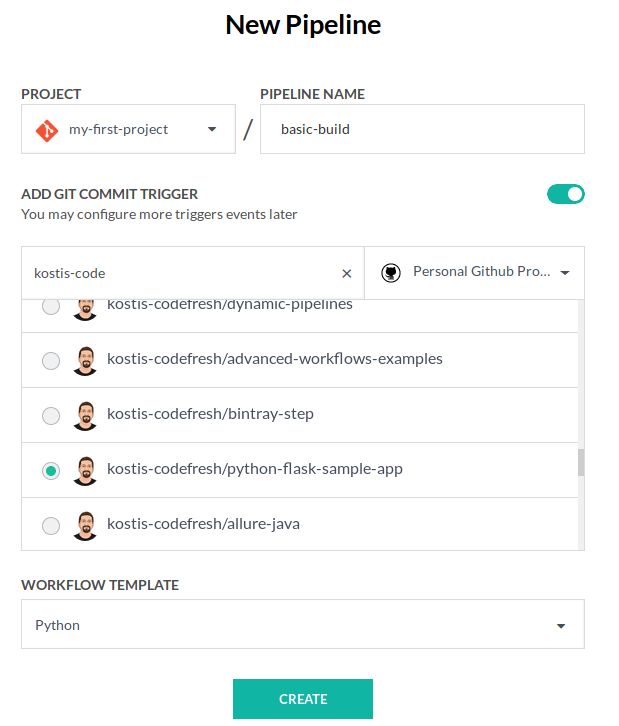
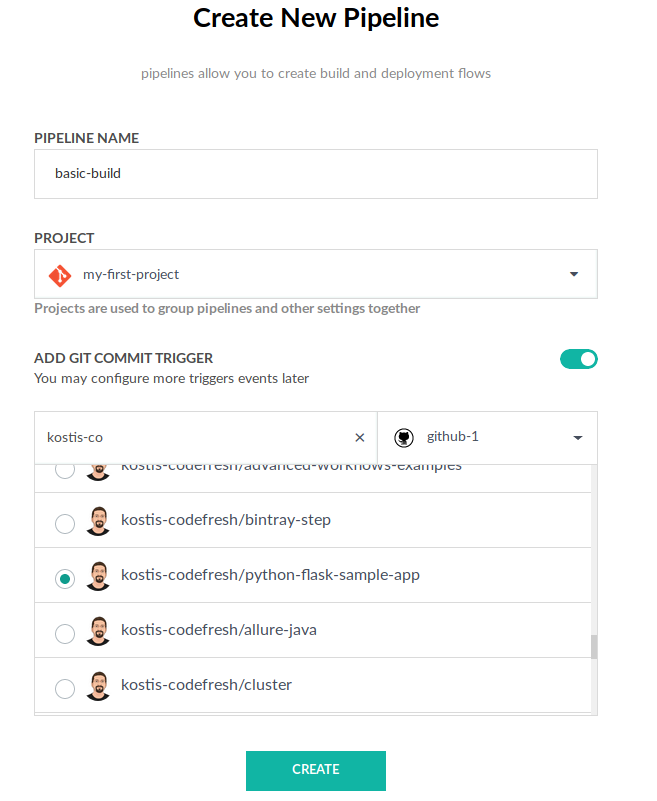
Template pipelines are now automatic

diff --git a/_docs/getting-started/create-a-basic-pipeline.md b/_docs/getting-started/create-a-basic-pipeline.md
@@ -57,7 +57,7 @@ After some brief time, the repository should appear in your own Github account.
 Now you are ready to start building code with Codefresh!
 
 
-> Codefresh supports Gitlab and Bitbucket repositories apart from Github. The
+> Codefresh supports Gitlab, Bitbucket and Azure GIT repositories apart from Github. The
 same principles presented in this tutorial apply for all Git providers.
 
 
@@ -71,7 +71,7 @@ lightbox="true"
 file="/images/getting-started/quick-start-ci/pipeline-overview.jpg" 
 url="/images/getting-started/quick-start-ci/pipeline-overview.jpg" 
 alt="Pipeline Overview" 
-caption="Pipeline Overview (click image to enlarge)" 
+caption="Pipeline Overview" 
 max-width="100%" 
 %}
 
@@ -99,7 +99,7 @@ lightbox="true"
 file="/images/getting-started/quick-start-ci/docker-build-steps.jpg" 
 url="/images/getting-started/quick-start-ci/docker-build-steps.jpg" 
 alt="Preparing a Docker image" 
-caption="Preparing a Docker image (click image to enlarge)" 
+caption="Preparing a Docker image" 
 max-width="60%" 
 %}
 
@@ -111,13 +111,13 @@ Because all Codefresh capabilities are based on Docker images, Docker is also se
 
 
 The example application already comes with its own Dockerfile, making the creation of a Codefresh pipeline very easy.
-Let's start by going into the [Codefresh dashboard](https://g.codefresh.io/repositories) (after [creating your account]({{site.baseurl}}/docs/getting-started/create-a-codefresh-account/))
+Let's start by going into the [Codefresh dashboard](https://g.codefresh.io/projects/) (after [creating your account]({{site.baseurl}}/docs/getting-started/create-a-codefresh-account/)).
 
 ### Creating a new project
 
 Codefresh pipelines are grouped under [projects]({{site.baseurl}}/docs/configure-ci-cd-pipeline/pipelines/#pipeline-concepts). Project names can be anything you want with the most common example being the name of an application where all pipelines in the project are packaging/deploying the different microservices. You can think of projects as "folders/directories" for your pipelines.
 
-Make sure that you have selected *Projects* from the left sidebar. Then click on the *Add project* button on the top right corner to get started.
+Make sure that you have selected *Projects* from the left sidebar. Then click on the *New project* button on the top right corner to get started.
 
 Enter a name for your project (e.g. `my-first-project`) and choose a sample icon that you like. You can also optionally add tags that will be used for [access control]({{site.baseurl}}/docs/enterprise/access-control/) (most useful in a organization). For now leave the tags empty.
 
@@ -126,7 +126,7 @@ You now have a new project and can start adding pipelines in it.
 
 ### Creating a new pipeline
 
-Click the *Add pipeline* button in order to create a pipeline.
+Click the *New pipeline* button in order to create a pipeline.
 Enter a name (e.g. `basic-build`). Make sure that the option *Add Git commit trigger* is selected.
 
 {% include 
@@ -141,13 +141,14 @@ max-width="50%"
 
 Find your repository from the list and select it. This way your pipeline will be automatically launched when a commit happens on this repository. 
 
-You can also select a template for the pipeline. The Python one is relevant for this project, but we will not use it anyway so feel free to select anything from the list.
 
 Click the *Create* button. Your pipeline was created and you should now see the pipeline editor. Here you can describe what the pipeline will do using [Codefresh YAML]({{site.baseurl}}/docs/codefresh-yaml/what-is-the-codefresh-yaml/).
 
 ###  Build the docker image
 
-You will create a very simple pipeline that checks out the source code and build a docker image.
+Codefresh has already created a sample pipeline which we will not use for this tutorial.
+
+You will create a very simple pipeline that checks out the source code and builds a docker image.
 Delete the existing contents on the editor and paste the following:
 
 `codefresh.yml`
@@ -190,7 +191,7 @@ On the dialog that will appear leave the default selections.
 
 ### Starting the first build
 
-Once the build is started you Codefresh will navigate you to the build progress of the sample application.
+Once the build is started Codefresh will navigate you to the build progress of the sample application.
 
 {% include 
 image.html 
@@ -336,7 +337,7 @@ Among the information shown, you can clearly see:
 This information can help you to easily correlate the changes that exist in each Docker images, which is very important knowledge when it comes to deployments (explained in detail in the next tutorial).
 
 If you click on a Docker image you will get many more details about it including a timeline of the labels for this Docker image. You also have the ability to enter custom comments that describe any event that you consider important. Codefresh
-really shines when it comes to annotating your Docker images with metadata. For more details read the section [Annotations]({{site.baseurl}}/docs/docker-registries/metadata-annotations/)
+really shines when it comes to annotating your Docker images with metadata. For more details read the section [Annotations]({{site.baseurl}}/docs/docker-registries/metadata-annotations/).
 
 {% include 
 image.html 

diff --git a/_docs/integrations/google-marketplace.md b/_docs/integrations/google-marketplace.md
@@ -69,7 +69,7 @@ caption="Generating a Codefresh API token"
 alt="Generating a Codefresh API token"
 %}
 
-You can give your token any name you wish so that you can remember its purpose. The token is tied to your Codefresh account and should be considered sensitive information. Give access to all scopes (Check all boxes) After you copy the token there is no way to get it back. Copy it into your clipboard before closing the dialog.
+You can give your token any name you wish so that you can remember its purpose. The token is tied to your Codefresh account and should be considered sensitive information. Give access to all scopes (i.e. check all boxes). After you copy the token there is no way to get it back. Copy it into your clipboard before closing the dialog.
 
 With the token at hand we can go to the Google marketplace.
 
